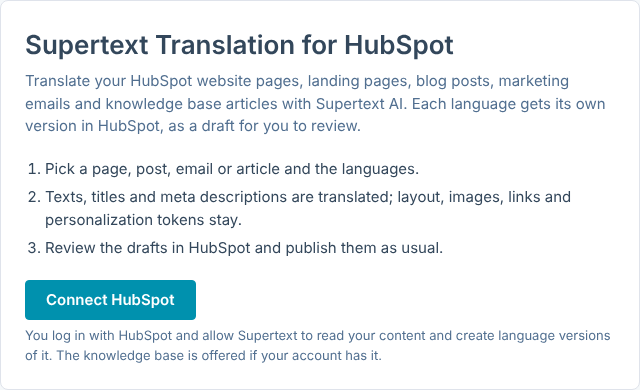
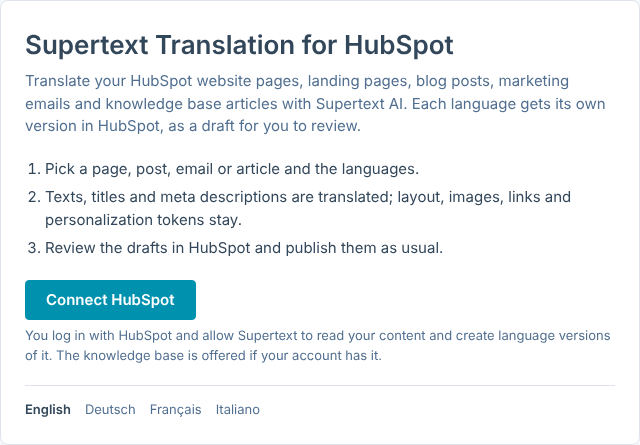
Interface language in Settings instead of the header
HubSpot doesn't pass the user's language to outside pages, so the app
keeps following the browser's language. The EN/DE/FR/IT switch leaves
the header: Settings → Interface language chooses one for this browser
(or Automatic), and the connect page offers the four languages as links
at the bottom. Strings in all four languages, tests, guides and
screenshots updated.

Claude-Session: https://claude.ai/code/session_01AU3tag45efgDojCNg2Fhnj

Changed region(s): [[0.0312, 0.0615, 0.9375, 0.3385], [0.0312, 0.6154, 0.9688, 0.9538], [0.0312, 0.3692, 0.9062, 0.5846]]

diff --git a/src/views/layout.tsx b/src/views/layout.tsx
@@ -31,7 +31,7 @@ export const ASSETS = {
   js: `/static/app.js?v=${assetVersion('app.js')}`,
 };
 
-const LANGUAGE_NAMES: Record<string, string> = { en: 'English', de: 'Deutsch', fr: 'Français', it: 'Italiano' };
+export const LANGUAGE_NAMES: Record<string, string> = { en: 'English', de: 'Deutsch', fr: 'Français', it: 'Italiano' };
 
 /** A link within the app. */
 export function appUrl(path: string, params: Record<string, string | number | undefined> = {}): string {
@@ -44,7 +44,6 @@ export function appUrl(path: string, params: Record<string, string | number | un
 export function Layout(props: { ctx: PageContext; title: string; children: Child }) {
   const { ctx } = props;
   const { t } = ctx;
-  const here = ctx.page === 'settings' ? '/settings' : '/';
   return (
     <html lang={t.locale}>
       <head>
@@ -71,18 +70,24 @@ export function Layout(props: { ctx: PageContext; title: string; children: Child
           )}
           <span class="spacer"></span>
           {ctx.accountName && <span class="account">{ctx.accountName}</span>}
-          <nav class="langs" aria-label={t.t('nav.language')}>
-            {LOCALES.map((locale) => (
-              <a href={appUrl(here, { lang: locale })} class={locale === t.locale ? 'active' : ''} lang={locale} title={LANGUAGE_NAMES[locale]}>
-                {locale.toUpperCase()}
-              </a>
-            ))}
-          </nav>
         </header>
         <main class="page">{props.children}</main>
         <script src={ASSETS.js} defer></script>
       </body>
     </html>
+  );
+}
+
+/** The four interface languages as links (the connect page, before there are settings). */
+export function LanguageLinks(props: { t: Translator; path: string }) {
+  return (
+    <nav class="langs" aria-label={props.t.t('nav.language')}>
+      {LOCALES.map((locale) => (
+        <a href={appUrl(props.path, { lang: locale })} class={locale === props.t.locale ? 'active' : ''} lang={locale}>
+          {LANGUAGE_NAMES[locale]}
+        </a>
+      ))}
+    </nav>
   );
 }
 

diff --git a/src/views/settings.tsx b/src/views/settings.tsx
@@ -13,7 +13,8 @@ import {
   supportsPoliteness,
 } from '../translation/languages.js';
 import { releaseUrl, VERSION } from '../version.js';
-import { API_KEY_URL, ApiKeyHelp, Layout, Notice, SIGNUP_URL, splitTemplate, type PageContext } from './layout.js';
+import { API_KEY_URL, ApiKeyHelp, LANGUAGE_NAMES, Layout, Notice, SIGNUP_URL, splitTemplate, type PageContext } from './layout.js';
+import { LOCALES } from '../i18n/index.js';
 
 /** The key check result in the interface language (the Commando Center's wording). */
 export function keyCheckText(t: Translator, check: ApiKeyCheck): string {
@@ -65,6 +66,8 @@ export interface SettingsPageProps {
   invalidCodes?: string;
   /** The account granted the knowledge base scopes. */
   knowledgeBase: boolean;
+  /** This browser's interface language: chosen in the settings, or 'auto' (the browser's). */
+  uiLanguage: 'auto' | (typeof LOCALES)[number];
 }
 
 export function SettingsPage(props: SettingsPageProps) {
@@ -223,6 +226,24 @@ export function SettingsPage(props: SettingsPageProps) {
           {account.tone !== 'default' && noPoliteness.length > 0 && (
             <p class="help">{t.t('settings.style.notOffered', { languages: names(noPoliteness) })}</p>
           )}
+        </section>
+
+        <section class="card">
+          <h2>{t.t('settings.ui.heading')}</h2>
+          <label class="field">
+            <span>{t.t('settings.ui.label')}</span>
+            <select name="uiLanguage">
+              <option value="auto" selected={props.uiLanguage === 'auto'}>
+                {t.t('settings.ui.auto')}
+              </option>
+              {LOCALES.map((locale) => (
+                <option value={locale} lang={locale} selected={props.uiLanguage === locale}>
+                  {LANGUAGE_NAMES[locale]}
+                </option>
+              ))}
+            </select>
+          </label>
+          <p class="help">{t.t('settings.ui.help')}</p>
         </section>
 
         <section class="card">

diff --git a/tests/flow.test.ts b/tests/flow.test.ts
@@ -285,6 +285,30 @@ describe('languages', () => {
   });
 });
 
+describe('interface language', () => {
+  it('follows the browser, and Settings can choose another one for this browser only', async () => {
+    const env = setup();
+    await env.connect();
+    const english = await (await env.request('/settings')).text();
+    expect(english).toContain('Automatic (your browser’s language)');
+    expect(english).not.toContain('class="langs"'); // no switcher in the header any more
+    await env.saveSettings([...STANDARD_SETTINGS, ['uiLanguage', 'de']]);
+    const german = await (await env.request('/settings')).text();
+    expect(german).toContain('Supertext-Einstellungen');
+    expect(german).toMatch(/<option value="de" lang="de" selected/);
+    expect(await (await env.request('/')).text()).toContain('Mit Supertext übersetzen');
+    await env.saveSettings([...STANDARD_SETTINGS, ['uiLanguage', 'auto']]);
+    expect(await (await env.request('/settings')).text()).toContain('Supertext settings');
+  });
+
+  it('offers the four languages as links on the connect page', async () => {
+    const env = setup();
+    const page = await (await env.request('/')).text();
+    expect(page).toContain('href="/?lang=fr"');
+    expect(await (await env.request('/?lang=fr')).text()).toContain('Connecter HubSpot');
+  });
+});
+
 describe('HubSpot tokens', () => {
   it('refreshes an expired access token and goes on', async () => {
     const env = setup();

diff --git a/public/app.css b/public/app.css
@@ -36,10 +36,9 @@ code { font: 12px/1 ui-monospace, Menlo, monospace; background: var(--bg); paddi
 .tab:hover { text-decoration: none; color: var(--text); }
 .tab.active { color: var(--text); border-bottom-color: var(--teal); font-weight: 600; }
 .account { color: var(--muted); font-size: 13px; white-space: nowrap; }
-.langs { display: flex; gap: 2px; }
-.langs a { font-size: 12px; font-weight: 600; color: var(--muted); padding: 4px 6px; border-radius: 4px; }
-.langs a.active { background: var(--text); color: #fff; }
-.langs a:hover { text-decoration: none; }
+.langs { display: flex; flex-wrap: wrap; gap: 4px 14px; margin-top: 20px; padding-top: 14px; border-top: 1px solid var(--line); font-size: 13px; }
+.langs a { color: var(--muted); }
+.langs a.active { color: var(--text); font-weight: 600; }
 
 .page { max-width: 1060px; margin: 0 auto; padding: 28px 32px 48px; }
 .intro { color: var(--muted); margin: 0 0 20px; max-width: 760px; }
@@ -144,8 +143,7 @@ body { overflow-x: hidden; }
   .topbar { flex-wrap: wrap; height: auto; padding: 10px 16px 0; gap: 4px 12px; }
   .brand { order: 1; padding-bottom: 6px; }
   .topbar > .spacer { order: 2; }
-  .langs { order: 3; padding-bottom: 6px; }
-  .tabs { order: 4; width: 100%; height: 44px; margin: 0 -14px; }
+  .tabs { order: 3; width: 100%; height: 44px; margin: 0 -14px; }
   .tab { padding: 0 14px; }
   .account { display: none; }
   .page { padding: 20px 16px 40px; }

diff --git a/src/app.ts b/src/app.ts
@@ -337,6 +337,10 @@ export function createApp(deps: AppDeps) {
           saved: c.req.query('saved') === '1',
           invalidCodes: c.req.query('invalid') || undefined,
           knowledgeBase: knowledgeBase(session.account),
+          uiLanguage: (() => {
+            const chosen = getCookie(c, 'st_locale') ?? '';
+            return /^(en|de|fr|it)$/.test(chosen) ? (chosen as 'en' | 'de' | 'fr' | 'it') : 'auto';
+          })(),
         }),
       ),
     );
@@ -375,6 +379,14 @@ export function createApp(deps: AppDeps) {
     }
     account.languageCodes = codes;
     if (!reporting.fixedByEnvironment) account.versionReports = field('versionReports') === '1';
+
+    // The interface language belongs to this browser (each colleague picks their own), not to the account.
+    const uiLanguage = field('uiLanguage');
+    if (/^(en|de|fr|it)$/.test(uiLanguage)) {
+      setCookie(c, 'st_locale', uiLanguage, { path: '/', maxAge: 365 * 86400, sameSite: 'Lax', secure });
+    } else if (uiLanguage === 'auto') {
+      deleteCookie(c, 'st_locale', { path: '/' });
+    }
 
     await store.saveAccount(account);
     // The automatic API key check (shown on the settings page) and the settings_saved report.

diff --git a/src/i18n/fr.ts b/src/i18n/fr.ts
@@ -122,6 +122,10 @@ export const fr: Messages = {
     'Supertext ne propose pas de forme d’adresse formelle ou informelle pour {languages} ; ces langues sont traduites avec le réglage par défaut de Supertext.',
   'settings.keyCheck.label': 'Vérification de la clé API :',
   'settings.keyCheck.at': '(dernière vérification {time} UTC)',
+  'settings.ui.heading': "Langue de l’interface",
+  'settings.ui.label': "Langue de ces pages",
+  'settings.ui.auto': "Automatique (langue de votre navigateur)",
+  'settings.ui.help': "S’applique uniquement à ce navigateur : chaque collègue peut choisir la sienne. Elle n’a aucune influence sur les langues dans lesquelles vos contenus sont traduits.",
   'settings.reports.heading': 'Support Supertext',
   'settings.reports.label': 'Envoyer les informations de version à Supertext',
   'settings.reports.help':

diff --git a/src/i18n/de.ts b/src/i18n/de.ts
@@ -125,6 +125,10 @@ export const de: Messages = {
     'Supertext bietet für {languages} keine formelle oder informelle Anrede an; diese Sprachen werden mit der Vorgabe von Supertext übersetzt.',
   'settings.keyCheck.label': 'Prüfung des API-Schlüssels:',
   'settings.keyCheck.at': '(zuletzt geprüft {time} UTC)',
+  'settings.ui.heading': "Sprache der Oberfläche",
+  'settings.ui.label': "Sprache dieser Seiten",
+  'settings.ui.auto': "Automatisch (Sprache Ihres Browsers)",
+  'settings.ui.help': "Gilt nur für diesen Browser, so kann jede Kollegin und jeder Kollege die eigene wählen. Sie hat keinen Einfluss darauf, in welche Sprachen Ihre Inhalte übersetzt werden.",
   'settings.reports.heading': 'Supertext-Support',
   'settings.reports.label': 'Versionsinformationen an Supertext senden',
   'settings.reports.help':

diff --git a/src/i18n/it.ts b/src/i18n/it.ts
@@ -122,6 +122,10 @@ export const it: Messages = {
     'Supertext non offre una forma di cortesia formale o informale per {languages}; queste lingue vengono tradotte con l’impostazione predefinita di Supertext.',
   'settings.keyCheck.label': 'Verifica della chiave API:',
   'settings.keyCheck.at': '(ultima verifica {time} UTC)',
+  'settings.ui.heading': "Lingua dell’interfaccia",
+  'settings.ui.label': "Lingua di queste pagine",
+  'settings.ui.auto': "Automatica (lingua del Suo browser)",
+  'settings.ui.help': "Vale solo per questo browser, così ogni collega può scegliere la propria. Non influisce sulle lingue in cui vengono tradotti i Suoi contenuti.",
   'settings.reports.heading': 'Assistenza Supertext',
   'settings.reports.label': 'Inviare le informazioni sulla versione a Supertext',
   'settings.reports.help':

diff --git a/src/i18n/en.ts b/src/i18n/en.ts
@@ -130,6 +130,10 @@ export const en = {
     "Supertext offers no formal or informal address for {languages}; these are translated with Supertext's default.",
   'settings.keyCheck.label': 'API key check:',
   'settings.keyCheck.at': '(last checked {time} UTC)',
+  'settings.ui.heading': "Interface language",
+  'settings.ui.label': "Language of these pages",
+  'settings.ui.auto': "Automatic (your browser’s language)",
+  'settings.ui.help': "Applies to this browser only, so each colleague can choose their own. It doesn’t affect which languages your content is translated into.",
   'settings.reports.heading': 'Supertext support',
   'settings.reports.label': 'Send version information to Supertext',
   'settings.reports.help':

diff --git a/src/views/connect.tsx b/src/views/connect.tsx
@@ -1,5 +1,5 @@
 import type { ErrorInfo } from '../i18n/error.js';
-import { Layout, Notice, type PageContext } from './layout.js';
+import { LanguageLinks, Layout, Notice, type PageContext } from './layout.js';
 
 /** The start page without a session: what the app does and "Connect HubSpot". */
 export function ConnectPage(props: { ctx: PageContext; error?: ErrorInfo; notice?: 'denied' | 'disconnected'; configured: boolean }) {
@@ -26,6 +26,7 @@ export function ConnectPage(props: { ctx: PageContext; error?: ErrorInfo; notice
           </a>
         </div>
         <p class="help">{t.t('connect.hint')}</p>
+        <LanguageLinks t={t} path="/" />
       </section>
     </Layout>
   );

diff --git a/docs/INSTALLATION.md b/docs/INSTALLATION.md
@@ -34,9 +34,9 @@ The app's settings page links to both, next to the API key field.
 
 ## 2. Install the app in HubSpot
 
-Open the app (Supertext sends you its address until it is listed in the HubSpot App Marketplace) and click **Connect HubSpot**. HubSpot asks you to choose the account and to allow *Supertext Translation* to access your content; confirm. If your account has the knowledge base, HubSpot also offers access to it. You come back to the app's settings.
+Open the app (Supertext sends you its address until it is listed in the HubSpot App Marketplace) and click **Connect HubSpot**. The page is in your browser's language; the links at the bottom switch to English, German, French or Italian. HubSpot asks you to choose the account and to allow *Supertext Translation* to access your content; confirm. If your account has the knowledge base, HubSpot also offers access to it. You come back to the app's settings.
 
-<img src="images/connect.png" alt="Supertext Translation for HubSpot: what the app does in three points and the button Connect HubSpot" width="640">
+<img src="images/connect.png" alt="Supertext Translation for HubSpot: what the app does in three points, the button Connect HubSpot and the interface languages English, Deutsch, Français and Italiano" width="640">
 
 The app asks HubSpot for:
 
@@ -51,7 +51,7 @@ Everyone in your team who connects the same HubSpot account shares its settings.
 
 Enter the API key, choose your languages and click **Save**. Saving checks the API key automatically (free of charge, nothing is translated) and shows the result under the key: *API key checked: the connection to Supertext works.* means everything is in place. **Test connection** runs the same check again, also for a key you have typed but not saved yet.
 
-<img src="images/settings.png" alt="Supertext settings: the saved API key with links to create a Supertext account and generate the key, the API key check result and Test connection, both saying the connection to Supertext works; the language of the content (English); German with the Supertext code de-DE, Italian (Switzerland), Swiss French and Swiss High German ticked, sent as it-CH, fr-CH and de-CH; the form of address; Send version information to Supertext; the connected account swiss-chocolate.example with the knowledge base connected; and the version 0.1.0" width="720">
+<img src="images/settings.png" alt="Supertext settings: the saved API key with links to create a Supertext account and generate the key, the API key check result and Test connection, both saying the connection to Supertext works; the language of the content (English); German with the Supertext code de-DE, Italian (Switzerland), Swiss French and Swiss High German ticked, sent as it-CH, fr-CH and de-CH; the form of address; Send version information to Supertext; the interface language (automatic); the connected account swiss-chocolate.example with the knowledge base connected; and the version 0.1.0" width="720">
 
 | Setting | Default | Purpose |
 | --- | --- | --- |
@@ -62,6 +62,7 @@ Enter the API key, choose your languages and click **Save**. Saving checks the A
 | Supertext code | empty | The language mapping: the code Supertext uses for this HubSpot language, picked from Supertext's list (the field suggests them). German, English, French, Italian and Portuguese need a region (`de-CH`, `de-DE`, `de-AT`, `en-US`, `en-GB`, `fr-CH`, `fr-FR`, `it-CH`, `it-IT`, `pt-BR`, `pt-PT`), Chinese and Serbian a script (`zh-Hans`, `zh-Hant`, `sr-Latn`, `sr-Cyrl`), Norwegian is `nb`; the others are the bare language (`es`, `nl`, `sl` …). Empty: the HubSpot code is used only if it is a Supertext code as it is (`de-ch` → `de-CH`, `es`, `nl`); otherwise the language isn't translated (*has no Supertext code yet*). Nothing is guessed: bare `de`, `fr` or `zh-cn` need a code. The column *Sent to Supertext* shows what each language is sent as, or *Not set*, and the page warns about ticked languages without a code. A code Supertext doesn't offer isn't saved (*Saved, except these codes …*). The same mapping gives the source language (`en-us` is sent as the source `en`). |
 | Form of address | Let Supertext decide | *Formal* (German "Sie", French "vous") or *Informal* ("du", "tu"). Sent only for languages where Supertext offers it; the page names the ticked languages that don't have it, which are translated with Supertext's default. |
 | Send version information to Supertext | On | See *Version information* below. |
+| Interface language | Automatic | The language of the app's own pages: your browser's language, or English, Deutsch, Français or Italiano. Saved for this browser only, so each colleague can choose their own; it doesn't change which languages your content is translated into. |
 
 The settings page also shows whether the knowledge base is connected and the app's version, linked to its release notes.
 

diff --git a/docs/DEVELOPER.md b/docs/DEVELOPER.md
@@ -77,7 +77,7 @@ Lists: `limit=25&sort=-updatedAt&archived=false`, cursor `paging.next.after`. La
 
 ## Interface languages
 
-English, German, French and Italian. HubSpot doesn't pass a language to the app's own pages, so the app follows `?lang=` (top-bar switch, stored in the `st_locale` cookie), then `Accept-Language`, then English. Strings live in `src/i18n/{en,de,fr,it}.ts`; `en.ts` defines the keys and the others are typed `Messages`, so a missing key fails `npm run typecheck`, and `tests/i18n.test.ts` checks keys, placeholders, URLs, "Supertext" and "HubSpot". **Every new or changed string gets all four languages in the same commit**, formal address (Sie, vous, Lei) and HubSpot's own terms (Website-Seiten, Landingpages, Blogbeiträge, Marketing-E-Mails, Wissensdatenbank; pages de destination, e-mails marketing, base de connaissances; landing page, e-mail di marketing, knowledge base), French narrow no-break space before `? ! : ;`. Language names come from `Intl.DisplayNames`. Errors are `LocalizedError`s (English message for logs, `code` → `error.<code>`).
+English, German, French and Italian. HubSpot doesn't pass the user's language to outside pages (only to UI extensions inside HubSpot), so the app follows the browser's `Accept-Language`, unless *Settings → Interface language* chose one: that choice is per browser, not per account (cookie `st_locale`, a year; *Automatic* deletes it), so colleagues sharing an account each keep their own. The connect page offers the four languages as links (`?lang=`, which sets the same cookie). If the browser asks for none of the four, the pages are in English. Strings live in `src/i18n/{en,de,fr,it}.ts`; `en.ts` defines the keys and the others are typed `Messages`, so a missing key fails `npm run typecheck`, and `tests/i18n.test.ts` checks keys, placeholders, URLs, "Supertext" and "HubSpot". **Every new or changed string gets all four languages in the same commit**, formal address (Sie, vous, Lei) and HubSpot's own terms (Website-Seiten, Landingpages, Blogbeiträge, Marketing-E-Mails, Wissensdatenbank; pages de destination, e-mails marketing, base de connaissances; landing page, e-mail di marketing, knowledge base), French narrow no-break space before `? ! : ;`. Language names come from `Intl.DisplayNames`. Errors are `LocalizedError`s (English message for logs, `code` → `error.<code>`).
 
 ## Supertext API protocol
 
